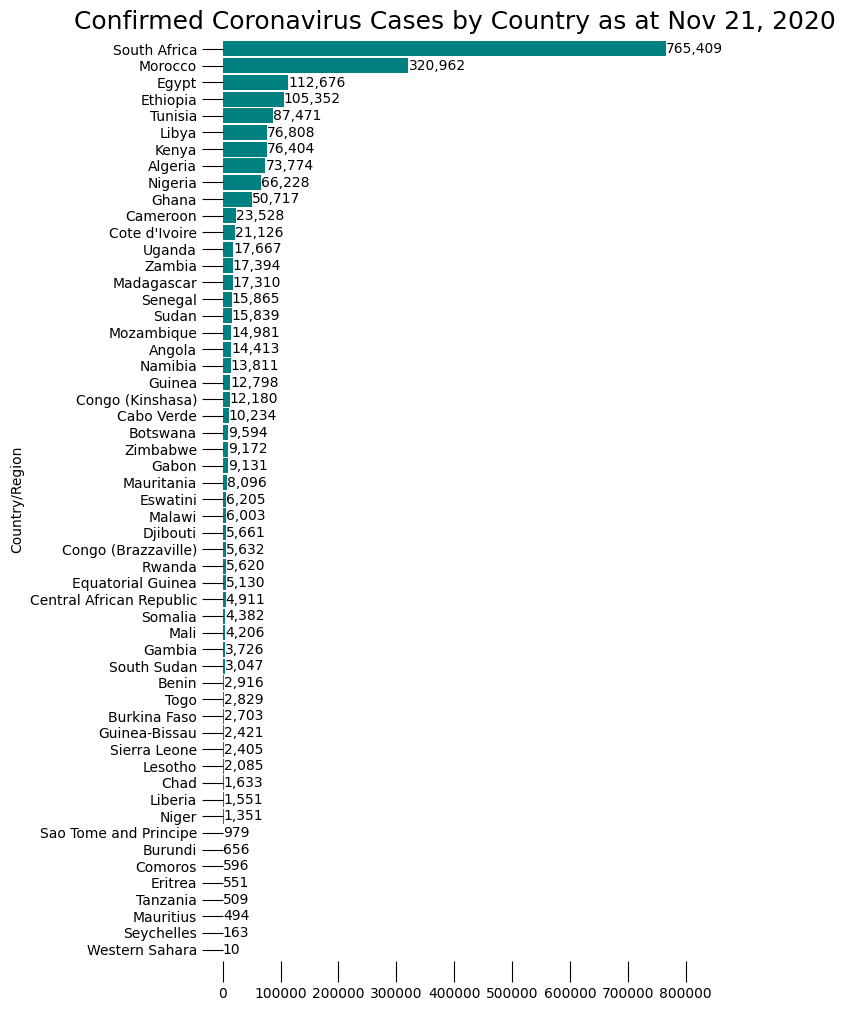
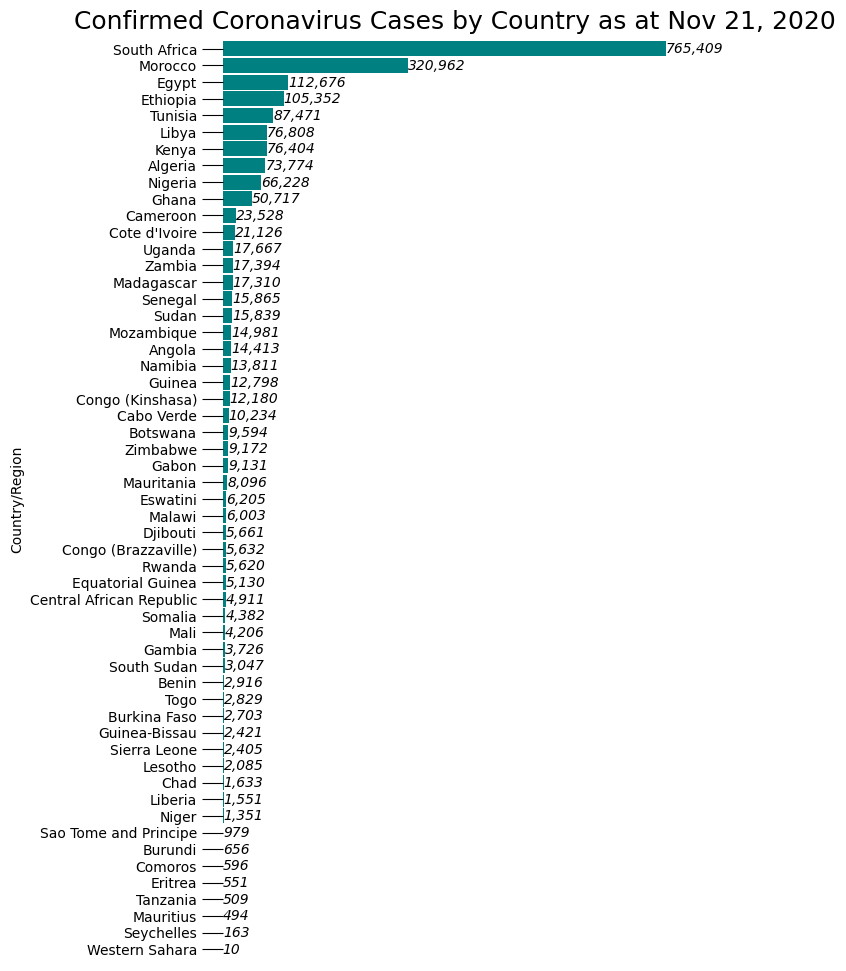
Add annotations to totals lineplot

diff --git a/scripts/utils.py b/scripts/utils.py
@@ -40,10 +40,16 @@ def plot_africa_totals(data, colors=['blue', 'orangered', 'lawngreen']):
     fig = Figure(figsize=(10, 5), dpi=200)
     fig.suptitle(f'Total Coronavirus Cases in Africa as at {latest}', size=18)
     ax = fig.subplots()
-
+    # plot lines
     for idx, col in enumerate(data.columns):
         column = data[col]
         ax.plot(column.index, column, lw=2, color=colors[idx], label=col)
+
+    # annotate line plots
+    for ln in ax.lines:
+        x_coord, y_coord = ln.get_xydata()[-1]
+        ax.annotate(f'{ln.get_ydata().max():,}',
+                    xy=(x_coord+4, y_coord), style='oblique')
 
     ax.tick_params(axis='x', rotation=60)
     ax.yaxis.grid()  # horizontal gridlines
@@ -73,12 +79,13 @@ def plot_daily_confirmed(daily_data):
     ax = fig.subplots()
 
     data.plot.barh(x='Country/Region', ax=ax, width=0.9, color='teal')
-    ax.tick_params(size=15)
-
+    # annotate bars
     for p in ax.patches:
-        ax.annotate(f'{p.get_width():,}',
+        ax.annotate(f'{p.get_width():,}', style='oblique',
                     xy=(p.get_x()+p.get_width(), p.get_y()+.2))
     despine(ax)
+    ax.tick_params(size=15)
+    ax.get_xaxis().set_visible(False)  # hide x-axis
     ax.set_title(f'Confirmed Coronavirus Cases by Country as at {date}',
                  size=18)
     fig.savefig('datasets/africa_daily.png', transparent=True,
